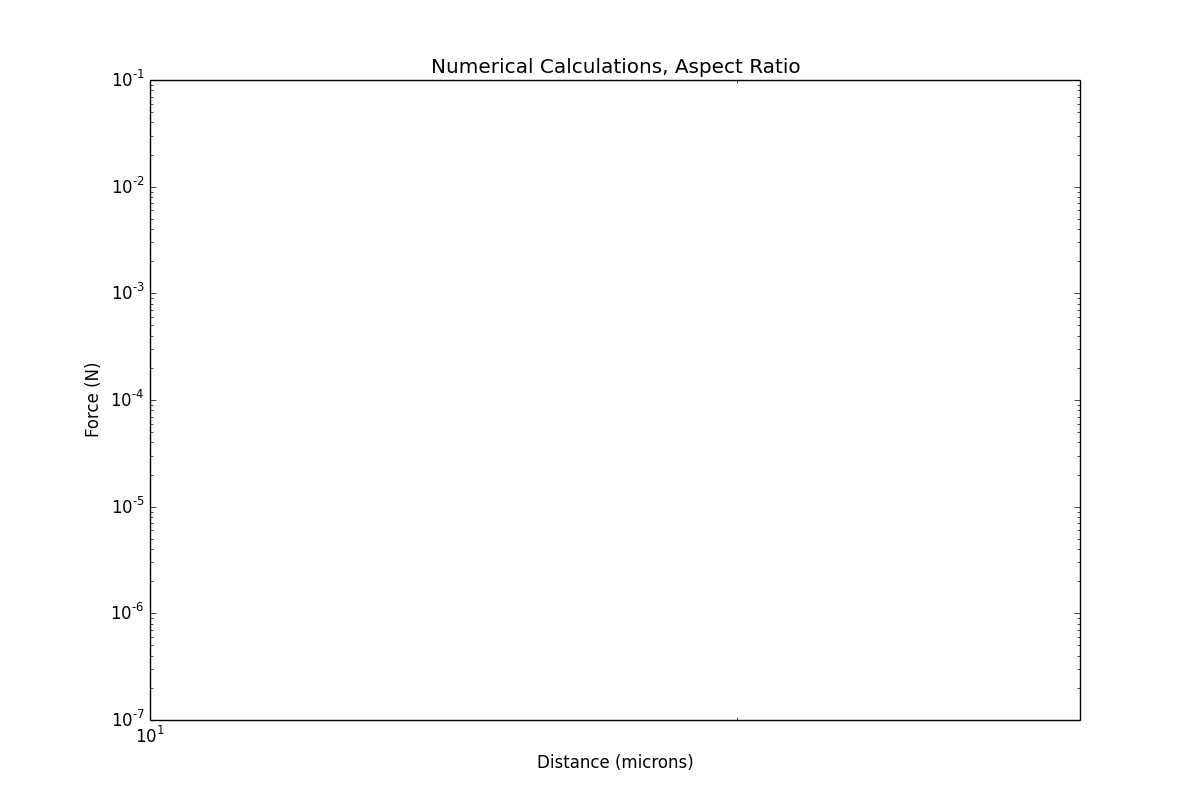
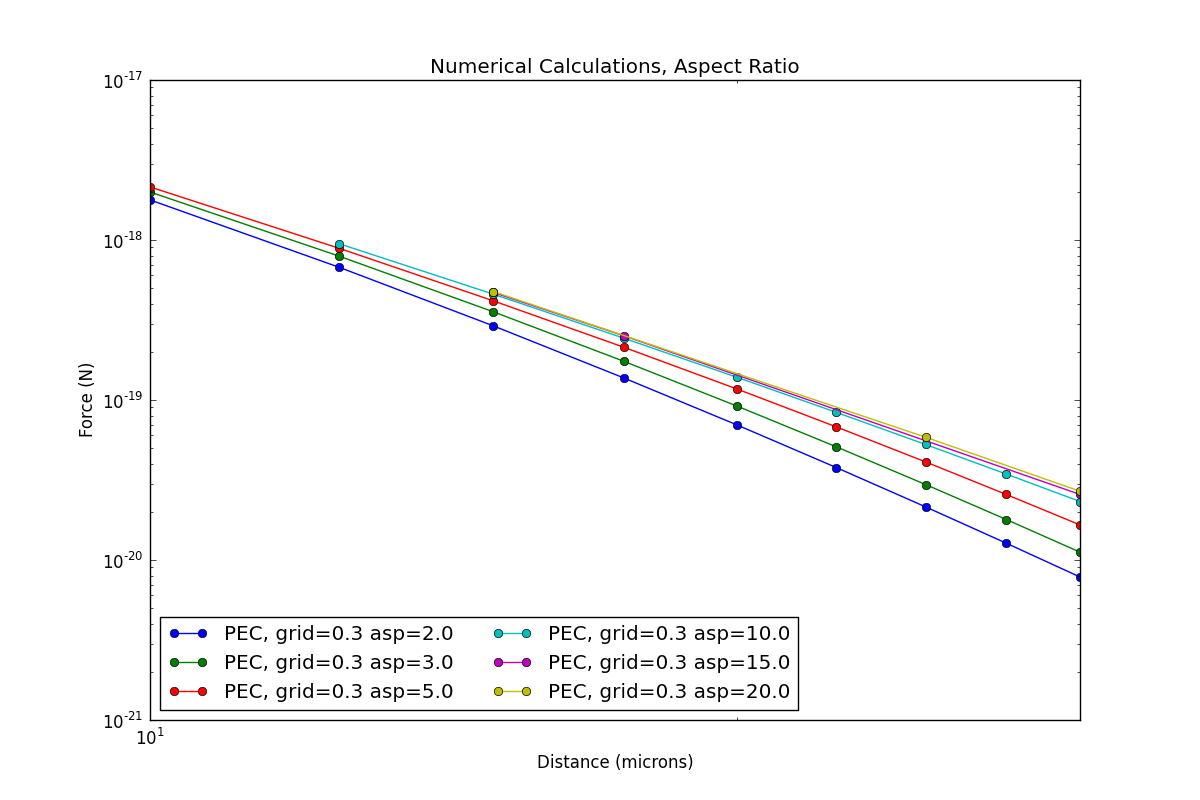
new figures

diff --git a/casimir/scuffCode/CubeSphereAspect/width.py b/casimir/scuffCode/CubeSphereAspect/width.py
@@ -31,17 +31,18 @@ a2=a2[inds]
 g2=g2[inds]
 
 figure(figsize=(12,8))
-gs=numpy.where(g1 == 0.3)
+#gs=numpy.unique(g1)
 
-for j in range(0,len(gs)):
-    inds = numpy.where(g1 == gs[j])
-    xd1=d1[inds]
-    yf1=f1[inds]
-    asp=a1[inds]
-    asps=numpy.unique(asp)
-    for i in range(0,len(asps)):
-        gpts=numpy.where(asps[i] == asp)
-        plot(xd1[gpts],yf1[gpts],'-o',label="PEC, grid="+str(gs[j])+" asp="+str(asps[i]))
+#for j in range(0,len(gs)):
+gs=0.3
+inds = numpy.where(g1 == gs)
+xd1=d1[inds]
+yf1=f1[inds]
+asp=a1[inds]
+asps=numpy.unique(asp)
+for i in range(0,len(asps)):
+    gpts=numpy.where(asps[i] == asp)
+    plot(xd1[gpts],yf1[gpts],'-o',label="PEC, grid="+str(gs)+" asp="+str(asps[i]))
 
 #gs=numpy.min(g2)
 #inds = numpy.where(g2 == gs)
@@ -57,20 +58,19 @@ savefig('analytic_v_numerical')
 #show()
 
 clf()
-gs=numpy.where(g1 == 0.3)
-
-for j in range(0,len(gs)):
-    inds = numpy.where(g1 == gs[j])
-    xd1=d1[inds]
-    yf1=f1[inds]
-    asp=a1[inds]
-    lens=numpy.unique(xd1)
-    for i in range(0,len(lens)):
-        gpts=numpy.where(lens[i] == xd1)
-        x=asp[gpts]
-        y=yf1[gpts]/numpy.min(yf1[gpts])
-        sinds=numpy.argsort(x)
-        plot(x[sinds],y[sinds],'-o',label="g="+str(gs[j])+" l="+str(lens[i]))
+gs=0.3
+#for j in range(0,len(gs)):
+inds = numpy.where(g1 == gs)
+xd1=d1[inds]
+yf1=f1[inds]
+asp=a1[inds]
+lens=numpy.unique(xd1)
+for i in range(0,len(lens)):
+    gpts=numpy.where(lens[i] == xd1)
+    x=asp[gpts]
+    y=yf1[gpts]/numpy.min(yf1[gpts])
+    sinds=numpy.argsort(x)
+    plot(x[sinds],y[sinds],'-o',label="g="+str(gs)+" l="+str(lens[i]))
 
 xlabel('Aspect Ratio (W/H)')
 ylabel('Force(Aspect)/Force(Aspect=2)')
